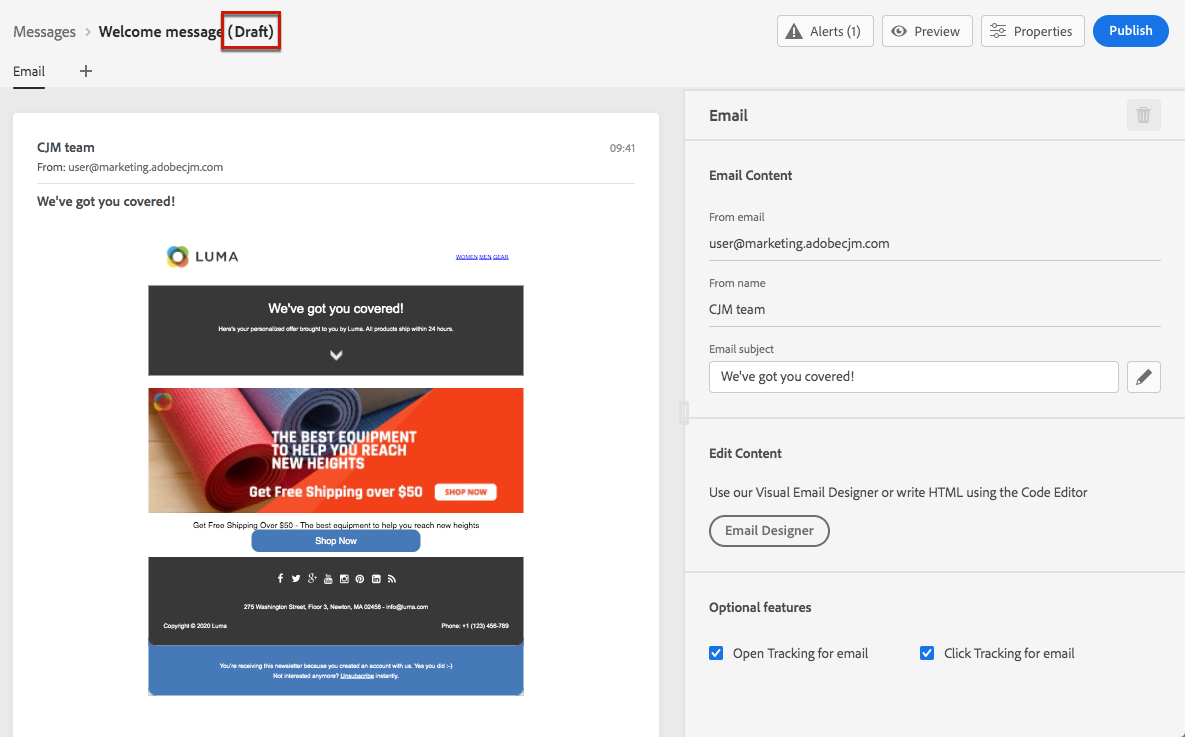
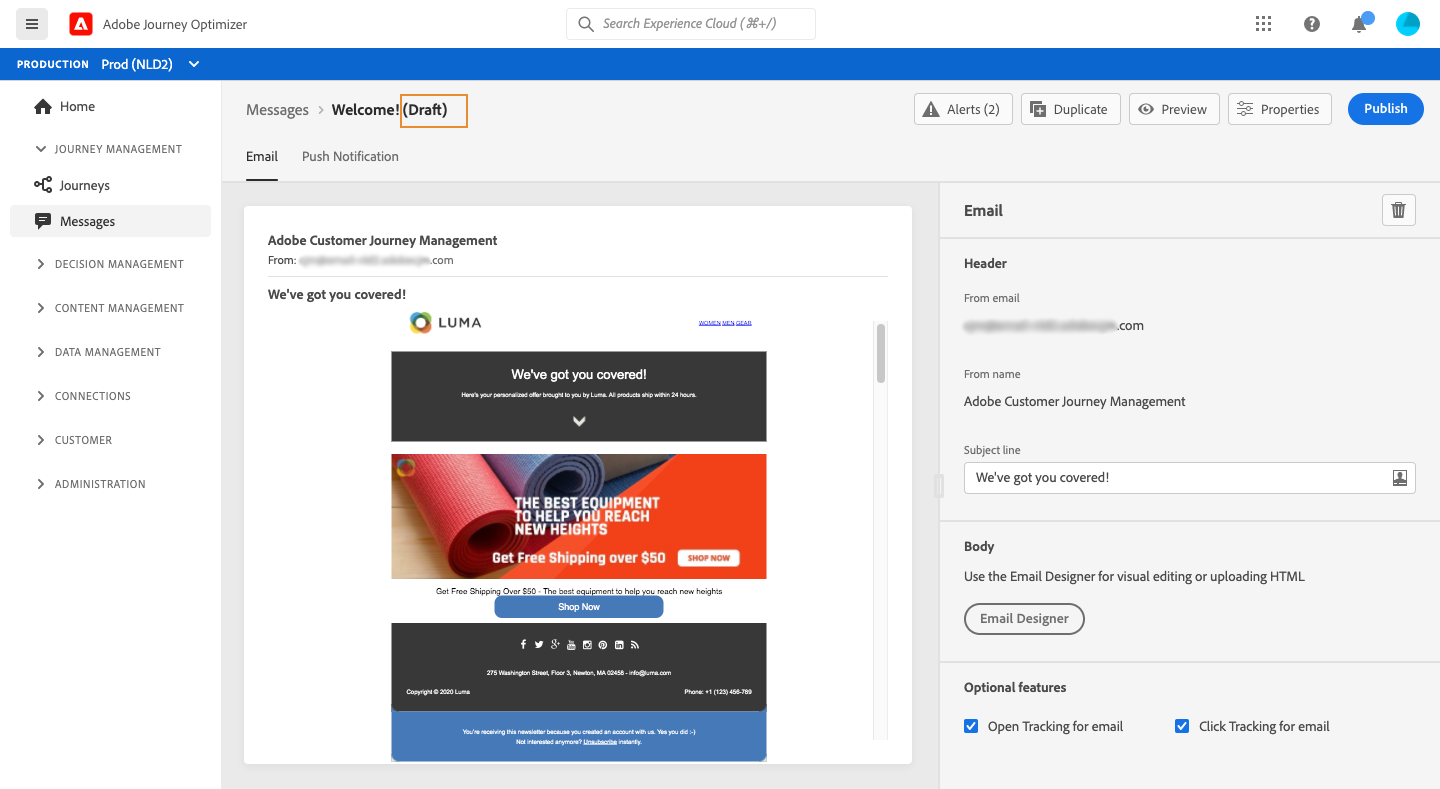
docac-6911 updated screenshots and GUI term

diff --git a/help/using/create-email.md b/help/using/create-email.md
@@ -19,7 +19,7 @@ Once you [created a message](create-message.md), use the **[!UICONTROL Email]** 
 
 The steps to configure an email are as follows:
 
-1. Specify the **[!UICONTROL Email subject]**. To do this, click the button on the right-hand side to open the Expression editor and compose the email subject. Learn how to add personalization in [this section](personalization/personalize.md)
+1. Specify the email subject in the **[!UICONTROL Subject line]** field. To do this, click the button on the right-hand side to open the Expression editor and compose the email subject. Learn how to add personalization in [this section](personalization/personalize.md)
 
 1. Click the **[!UICONTROL Email Designer]** button to design your email. Learn how to design emails in [this section](design-emails.md).
 

diff --git a/help/using/personalization/personalize.md b/help/using/personalization/personalize.md
@@ -39,7 +39,7 @@ In every fields with the editor icon, you can open the personalization editor (a
 
 ### Personalize your emails
 
-When you create an email, you can add personalization in the **Email subject** field of the message.
+When you create an email, you can add personalization in the **[!UICONTROL Subject line]** field of the message.
 
 ![](assets/perso_subject.png)
 
